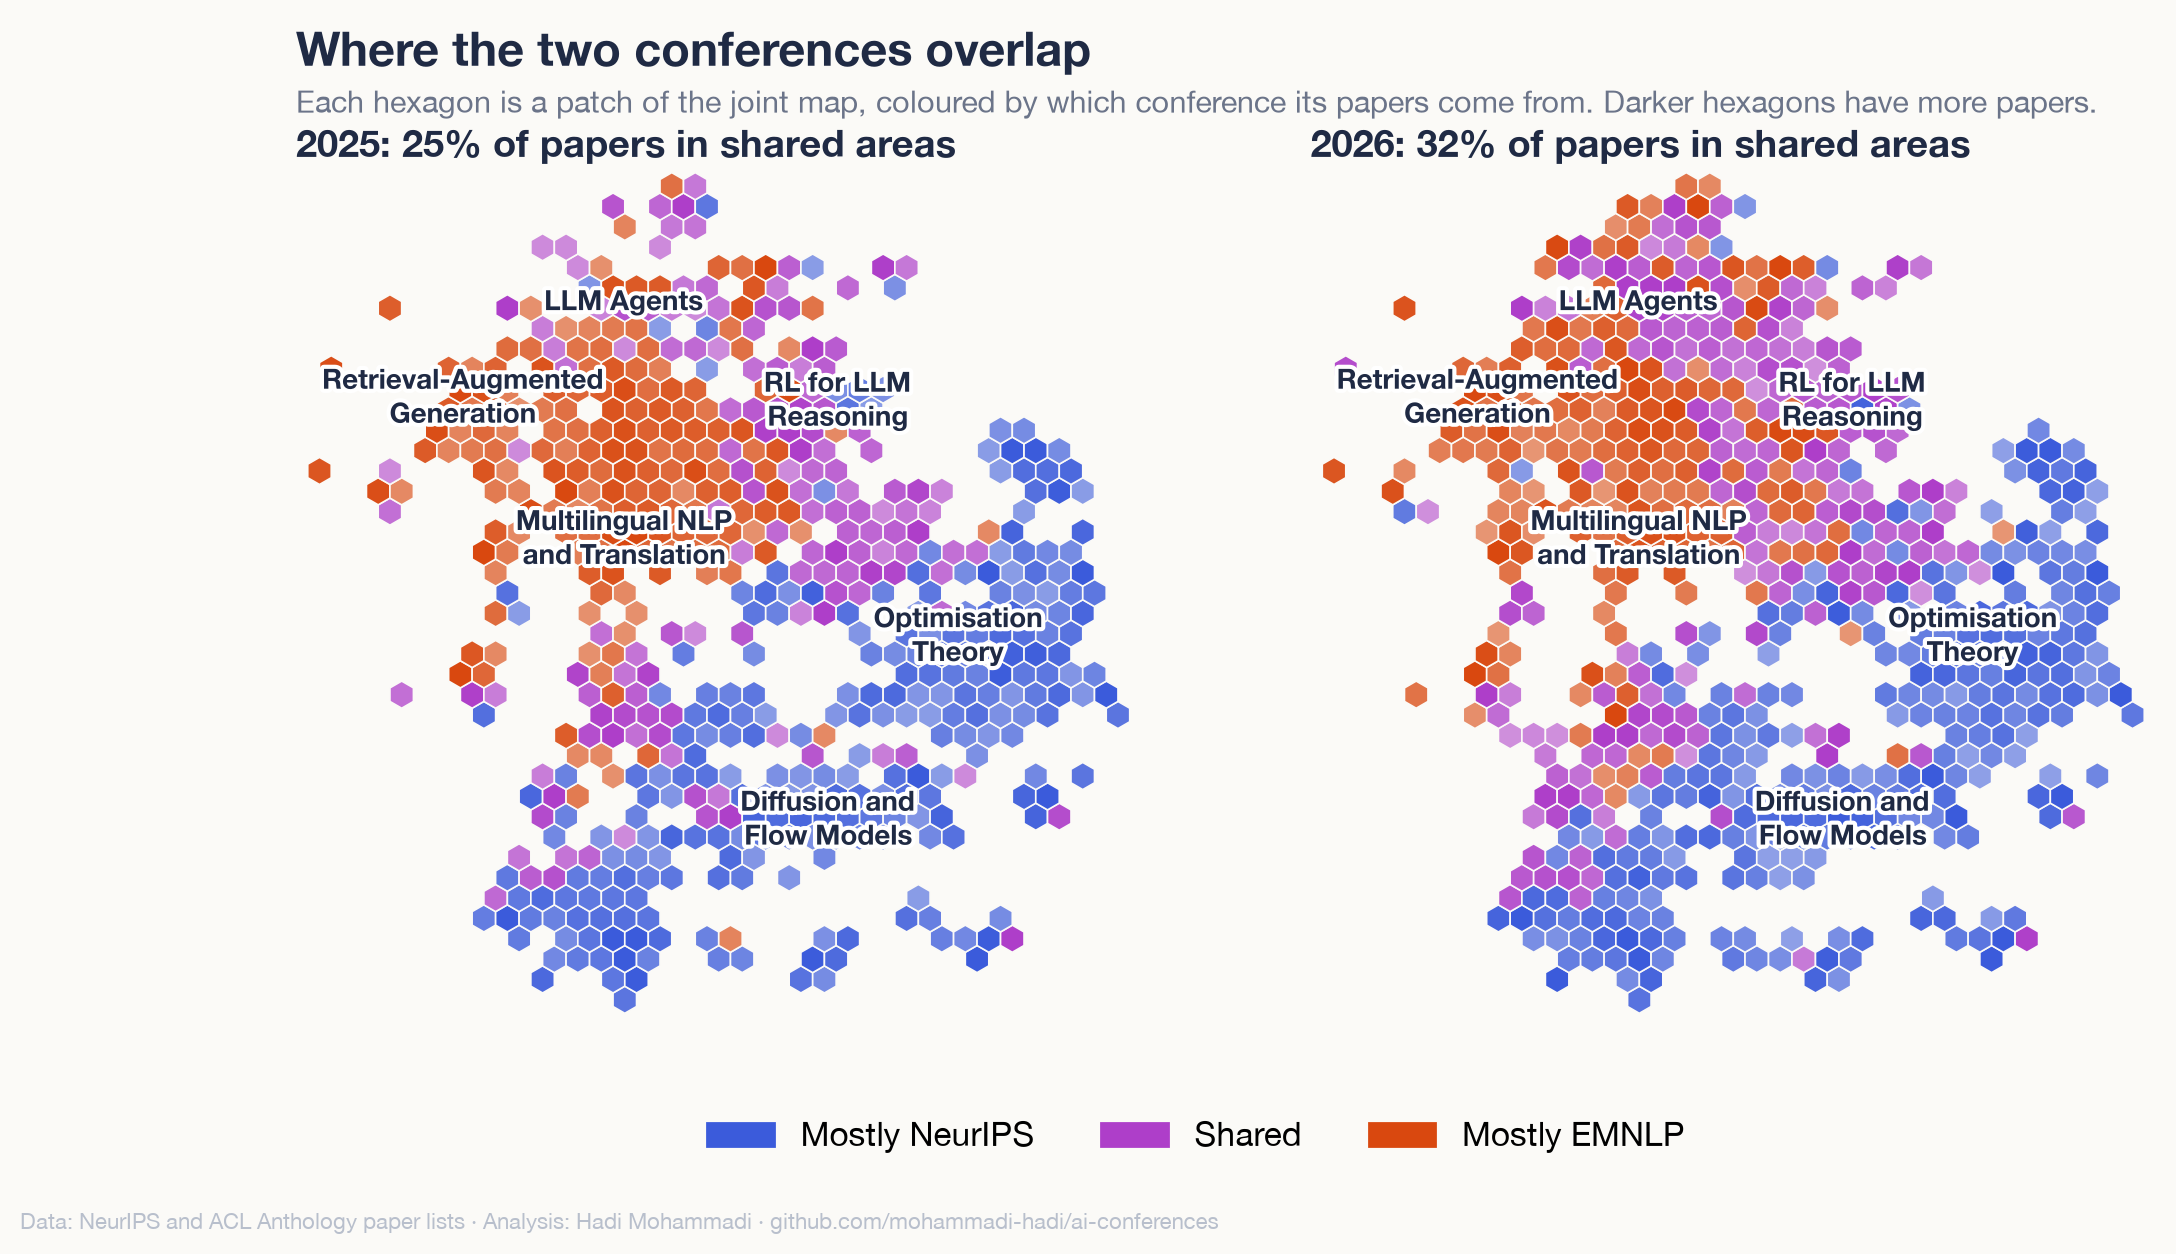
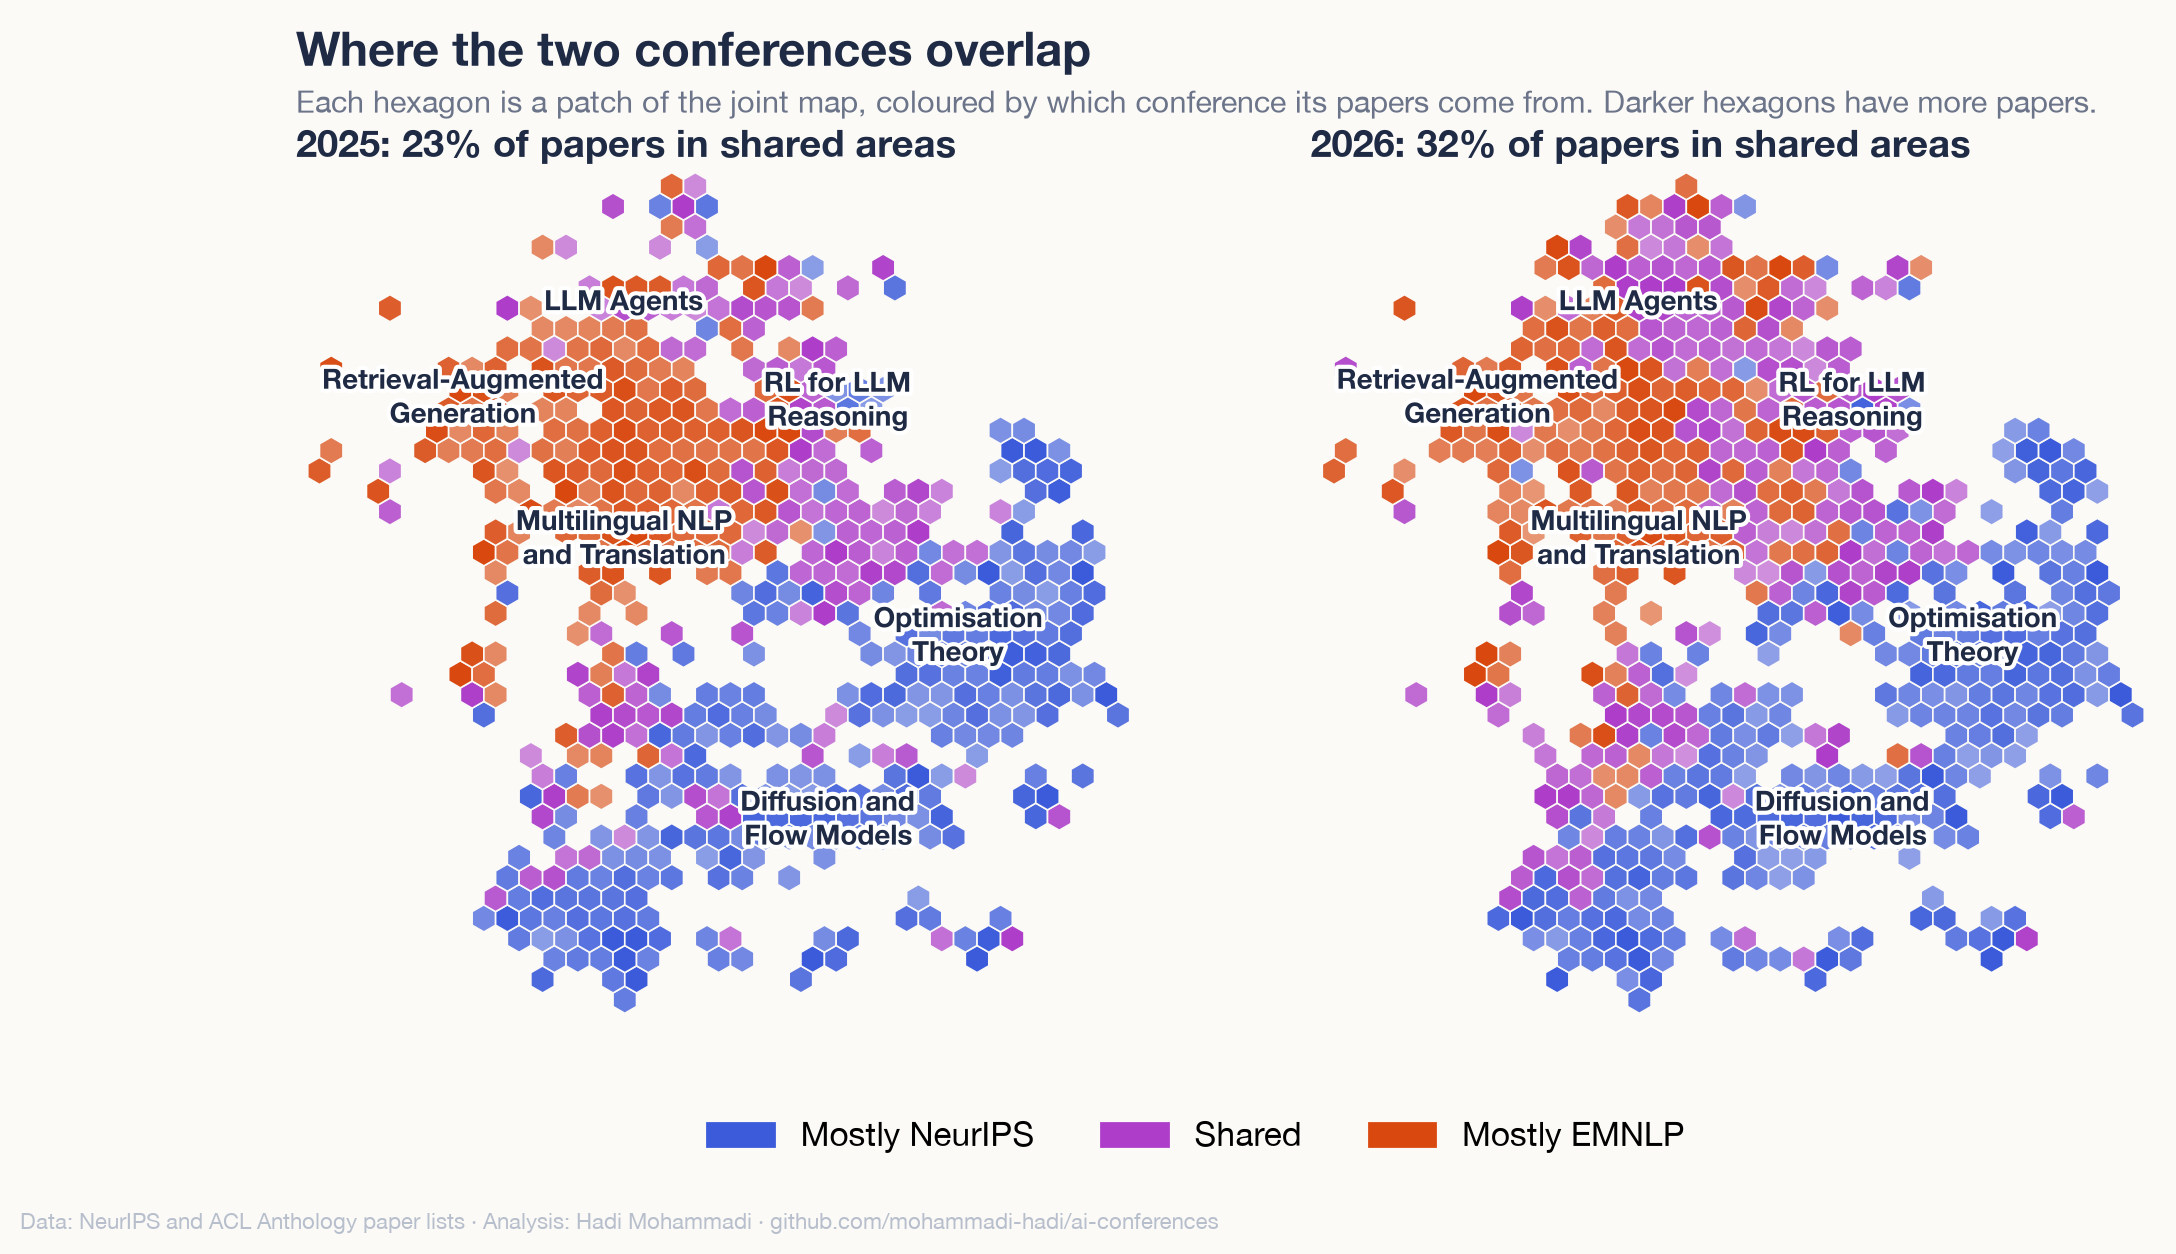
Update the story to the corrected hexagon counts

diff --git a/docs/2026/index.html b/docs/2026/index.html
@@ -79,13 +79,13 @@ html,body{overflow-x:hidden}
 <figure><a href="figures/closeness.png"><img src="figures/closeness.png" alt="Share of papers whose closest paper is at the other conference, 2025 and 2026" width="1359" height="838" loading="lazy"></a><figcaption>Share of papers whose closest paper is at the other conference, 2025 and 2026<span class="tap"> · Tap to enlarge.</span></figcaption></figure>
 <p>NeurIPS is much bigger than EMNLP, and both grew, so these shares compare 3,000 papers from each conference, drawn at random 50 times. A simple classifier that guesses the conference from the vector of a paper's title and abstract also finds the task harder now. Its score (AUC, 20 draws) fell from 0.93 to 0.89.</p>
 <h2 id="where-they-overlap">Where they overlap</h2>
-<p>The map at the top cuts all the papers into small patches and colours each one by which conference its papers come from, correcting for size. You can switch years, see which patches became shared, and tap any patch to see its papers. In 2025, 25% of all papers sat in patches that both conferences share about equally. In 2026 it was 32%, and still 31% when I shrink 2026 to the size of 2025. The shared ground grew most for agents, where half of the papers now sit in shared patches (up from 27%), and for evaluation and safety (16% to 34%).</p>
+<p>The map at the top cuts all the papers into small patches and colours each one by which conference its papers come from, correcting for size. You can switch years, see which patches became shared, and tap any patch to see its papers. In 2025, 23% of all papers sat in patches that both conferences share about equally. In 2026 it was 32%, and still 31% when I shrink 2026 to the size of 2025. The shared ground grew most for LLM agents, where two thirds of the papers now sit in shared patches (up from a third), and for benchmarks and LLM judges (8% to 40%).</p>
 <figure><a href="figures/overlap_areas.png"><img src="figures/overlap_areas.png" alt="Patches of the joint map that are mostly NeurIPS, shared, or mostly EMNLP, in 2025 and 2026" width="2176" height="1254" loading="lazy"></a><figcaption>Patches of the joint map that are mostly NeurIPS, shared, or mostly EMNLP, in 2025 and 2026<span class="tap"> · Tap to enlarge.</span></figcaption></figure>
 <h2 id="what-brought-them-together">What brought them together</h2>
 <p>I sorted all the papers into 40 shared topics and measured the common ground: for each topic, the smaller of the two conferences' shares, added up. It went from 40% to 45%.</p>
 <figure><a href="figures/topics_together.png"><img src="figures/topics_together.png" alt="Topics where the common ground grew most, share of each conference&#39;s papers in 2025 and 2026" width="1580" height="1091" loading="lazy"></a><figcaption>Topics where the common ground grew most, share of each conference&#39;s papers in 2025 and 2026<span class="tap"> · Tap to enlarge.</span></figcaption></figure>
 <p>The biggest gains came from agents and from reinforcement learning for language models. They make up about half of all the topic gains, and nearly all of the net rise once shrinking topics such as chain-of-thought reasoning are subtracted. LLM agents went from 2.0% to 4.6% of NeurIPS papers and from 4.2% to 9.0% of EMNLP papers. RL for LLM reasoning went from 1.3% to 2.7% at NeurIPS and from 0.9% to 3.2% at EMNLP. Agent memory, close to nothing at either conference in 2025, now has 0.8% of NeurIPS and 2.2% of EMNLP.</p>
-<p>Most of the gain is both conferences moving to the same new topics in the same year. NeurIPS also moved a little towards EMNLP's 2025 topics: its common ground with EMNLP 2025 went from 40% to 42%. EMNLP did not move towards NeurIPS 2025.</p>
+<p>Most of the gain is both conferences moving to the same new topics in the same year. NeurIPS also moved a little towards EMNLP's 2025 topics: its common ground with EMNLP 2025 went from 40% to 42%. EMNLP barely moved towards NeurIPS 2025.</p>
 <h2 id="what-still-sets-them-apart">What still sets them apart</h2>
 <figure><a href="figures/still_apart.png"><img src="figures/still_apart.png" alt="The five topics most specific to each conference in 2026" width="1715" height="1169" loading="lazy"></a><figcaption>The five topics most specific to each conference in 2026<span class="tap"> · Tap to enlarge.</span></figcaption></figure>
 <p>Most of each conference is still its own. Diffusion and flow models, bandits, optimisation theory and neural PDE solvers are almost only at NeurIPS. Multilingual NLP and translation, retrieval-augmented generation and information extraction are mostly at EMNLP, though multilingual NLP and information extraction now make up a smaller share of EMNLP than last year.</p>

diff --git a/report/BLOG.md b/report/BLOG.md
@@ -20,7 +20,7 @@ NeurIPS is much bigger than EMNLP, and both grew, so these shares compare 3,000 
 
 ## Where they overlap
 
-The map at the top cuts all the papers into small patches and colours each one by which conference its papers come from, correcting for size. You can switch years, see which patches became shared, and tap any patch to see its papers. In 2025, 25% of all papers sat in patches that both conferences share about equally. In 2026 it was 32%, and still 31% when I shrink 2026 to the size of 2025. The shared ground grew most for agents, where half of the papers now sit in shared patches (up from 27%), and for evaluation and safety (16% to 34%).
+The map at the top cuts all the papers into small patches and colours each one by which conference its papers come from, correcting for size. You can switch years, see which patches became shared, and tap any patch to see its papers. In 2025, 23% of all papers sat in patches that both conferences share about equally. In 2026 it was 32%, and still 31% when I shrink 2026 to the size of 2025. The shared ground grew most for LLM agents, where two thirds of the papers now sit in shared patches (up from a third), and for benchmarks and LLM judges (8% to 40%).
 
 ![Patches of the joint map that are mostly NeurIPS, shared, or mostly EMNLP, in 2025 and 2026](../outputs/figures/overlap_areas.png)
 
@@ -32,7 +32,7 @@ I sorted all the papers into 40 shared topics and measured the common ground: fo
 
 The biggest gains came from agents and from reinforcement learning for language models. They make up about half of all the topic gains, and nearly all of the net rise once shrinking topics such as chain-of-thought reasoning are subtracted. LLM agents went from 2.0% to 4.6% of NeurIPS papers and from 4.2% to 9.0% of EMNLP papers. RL for LLM reasoning went from 1.3% to 2.7% at NeurIPS and from 0.9% to 3.2% at EMNLP. Agent memory, close to nothing at either conference in 2025, now has 0.8% of NeurIPS and 2.2% of EMNLP.
 
-Most of the gain is both conferences moving to the same new topics in the same year. NeurIPS also moved a little towards EMNLP's 2025 topics: its common ground with EMNLP 2025 went from 40% to 42%. EMNLP did not move towards NeurIPS 2025.
+Most of the gain is both conferences moving to the same new topics in the same year. NeurIPS also moved a little towards EMNLP's 2025 topics: its common ground with EMNLP 2025 went from 40% to 42%. EMNLP barely moved towards NeurIPS 2025.
 
 ## What still sets them apart
 

diff --git a/README.md b/README.md
@@ -14,7 +14,7 @@ in both years on one map and measures it.
   samples (3,000 papers per conference, 50 draws; 20 for the classifier).
 - The common ground across 40 shared topics went from 40% to 45%. Agent and RL topics gave the biggest gains.
 - Most of the gain is both conferences moving to the same new topics; NeurIPS also moved a little towards EMNLP's 2025 topics.
-- Cutting the joint map into small patches, 25% of papers sat in patches both conferences share about equally in
+- Cutting the joint map into small patches, 23% of papers sat in patches both conferences share about equally in
   2025, and 32% in 2026 (31% at 2025 sizes).
 - At equal conference sizes, the share of authors with a paper at both did not go up.
 
@@ -49,10 +49,13 @@ track `All`.
 | `06_umap.py` | 2D layout of all papers |
 | `07_robustness.py` | 30 and 60 topics, 10 and 50 neighbours, EMNLP main track only |
 | `11_style_checks.py` | titles only, the 2025 to 2026 shift taken out, common ground across years |
+| `hexgrid.py` | the hexagon grid shared by the figure, the interactive map and the cards |
 | `12_overlap_areas.py` | where on the map the two overlap, and each paper's neighbourhood mix (run before `09_map.py`) |
 | `08_figures.py` | story figures |
 | `09_map.py` | interactive map |
 | `13_hexmap.py` | the interactive overlap map (`docs/2026/overlap.html`, from `src/hexmap_template.html`) |
+| `08_figures.py portrait` | 1080 x 1350 versions of three story figures in `outputs/cards/` |
+| `15_cards.py` | the hexagon card `outputs/cards/1_overlap.png`, from `docs/2026/overlap.html` (run after `13_hexmap.py`) |
 | `14_previews.py` | still images of that map, for the story and link previews (needs playwright) |
 | `10_build_site.py` | story page and hub page in `docs/` |
 
